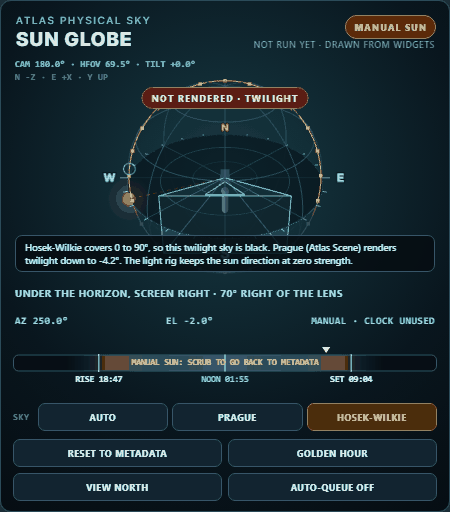
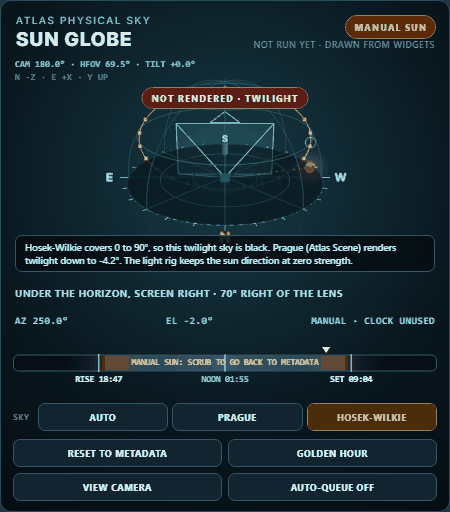
Sun Globe: open behind the camera, looking where it looks
The globe opened viewed from the south, so a south-facing camera's frustum pointed at the viewer.
It now opens (and double-click resets) behind the camera with the frustum facing away; VIEW NORTH
is still on the button. Twilight doc image retaken.

Claude-Session: https://claude.ai/code/session_01CrtpbaJ3onpFVwSVsU6DQq

diff --git a/web/atlas_vfx_sun_globe.js b/web/atlas_vfx_sun_globe.js
@@ -437,8 +437,8 @@ function buildGlobe(node, THREE) {
     "time offset 0, offsets 0");
   const goldenBtn = button("GOLDEN HOUR", "Move the clock to the golden hour on the capture day (the NOAA sun at " +
     "4 deg): evening after solar noon, morning before");
-  const viewBtn = button("VIEW NORTH", "View from the south with north up (east to the right), or from behind the " +
-    "camera. Drag empty space to orbit, double-click to reset");
+  const viewBtn = button("VIEW CAMERA", "From behind the camera, looking where it looks (the default), or from the " +
+    "south with north up (east to the right). Drag empty space to orbit, double-click to go back behind the camera");
   const queueBtn = button("AUTO-QUEUE OFF", "Queue the graph when a drag, scrub or button ends. Off by default: the " +
     "sky usually feeds a heavy graph");
   controls.append(resetBtn, goldenBtn, viewBtn, queueBtn);
@@ -557,7 +557,9 @@ function buildGlobe(node, THREE) {
   let payload = null, payloadId = 0, domeSrc = "", domeTex = null, domeReady = false;
   let st = null, builtPath = null, dirty = true, lastKey = "", lastSize = "", disposed = false, warned = false;
   let flashMsg = null, modelAtRun = null;
-  const view = { yaw: 0, pitch: 0.55, dist: 6.3, follow: false };
+  // opens behind the camera, looking where it looks (from the south a south-facing camera pointed at the viewer)
+  const CAMERA_VIEW = { pitch: 0.42, follow: true }, NORTH_VIEW = { yaw: 0, pitch: 0.55, follow: false };
+  const view = { yaw: 0, dist: 6.3, ...CAMERA_VIEW };
   const pathCache = { key: null, path: null };
 
   function currentPath(lat, lon, cap) {
@@ -905,7 +907,7 @@ function buildGlobe(node, THREE) {
   };
   canvas.addEventListener("pointerup", endDrag);
   canvas.addEventListener("pointercancel", endDrag);
-  canvas.addEventListener("dblclick", () => { Object.assign(view, { yaw: 0, pitch: 0.55, follow: false }); dirty = true; });
+  canvas.addEventListener("dblclick", () => { Object.assign(view, CAMERA_VIEW); dirty = true; });
   // The loop only renders on change, so a lost and restored context (too many WebGL canvases, a GPU reset) would stay
   // blank: draw again once three.js has the context back.
   canvas.addEventListener("webglcontextrestored", () => { dirty = true; });
@@ -952,7 +954,7 @@ function buildGlobe(node, THREE) {
   };
   viewBtn.onclick = () => {
     view.follow = !view.follow;
-    Object.assign(view, view.follow ? { pitch: 0.42 } : { yaw: 0, pitch: 0.55 });
+    Object.assign(view, view.follow ? CAMERA_VIEW : NORTH_VIEW);
     dirty = true;
   };
   queueBtn.onclick = () => { node.properties[AUTO_QUEUE_PROPERTY] = !autoQueue(); dirty = true; };

diff --git a/docs/NODE_CATALOGUE.md b/docs/NODE_CATALOGUE.md
@@ -572,7 +572,7 @@ Payloads (all plain JSON-safe dicts unless said):
   Hosek-Wilkie. info / sidecar / EXR attribute record the model. Nuke lat-long layout, azimuth grows right, centre
   north or camera heading. Sun under the model's limit (Prague -4.2, Hosek-Wilkie 0): black HDRI + warning, exact
   direction kept. Sun Globe panel (`web/atlas_vfx_sun_globe.js`, three.js r185 vendored): the sun,
-  the day's path and the camera frustum on a globe, drag the sun (writes manual), time-of-day scrubber, reset to
+  the day's path and the camera frustum on a globe, seen from behind the camera (VIEW NORTH on the button), drag the sun (writes manual), time-of-day scrubber, reset to
   metadata, golden hour, auto-queue toggle (off), sky model switch (writes sky_model), and a flag plus a short
   reason when the picked model won't render this sun (Hosek-Wilkie twilight, anything under -4.2). Drives the native
   widgets only; headless runs are unchanged. Pictures: `docs/images/sun_globe_twilight.png`,
